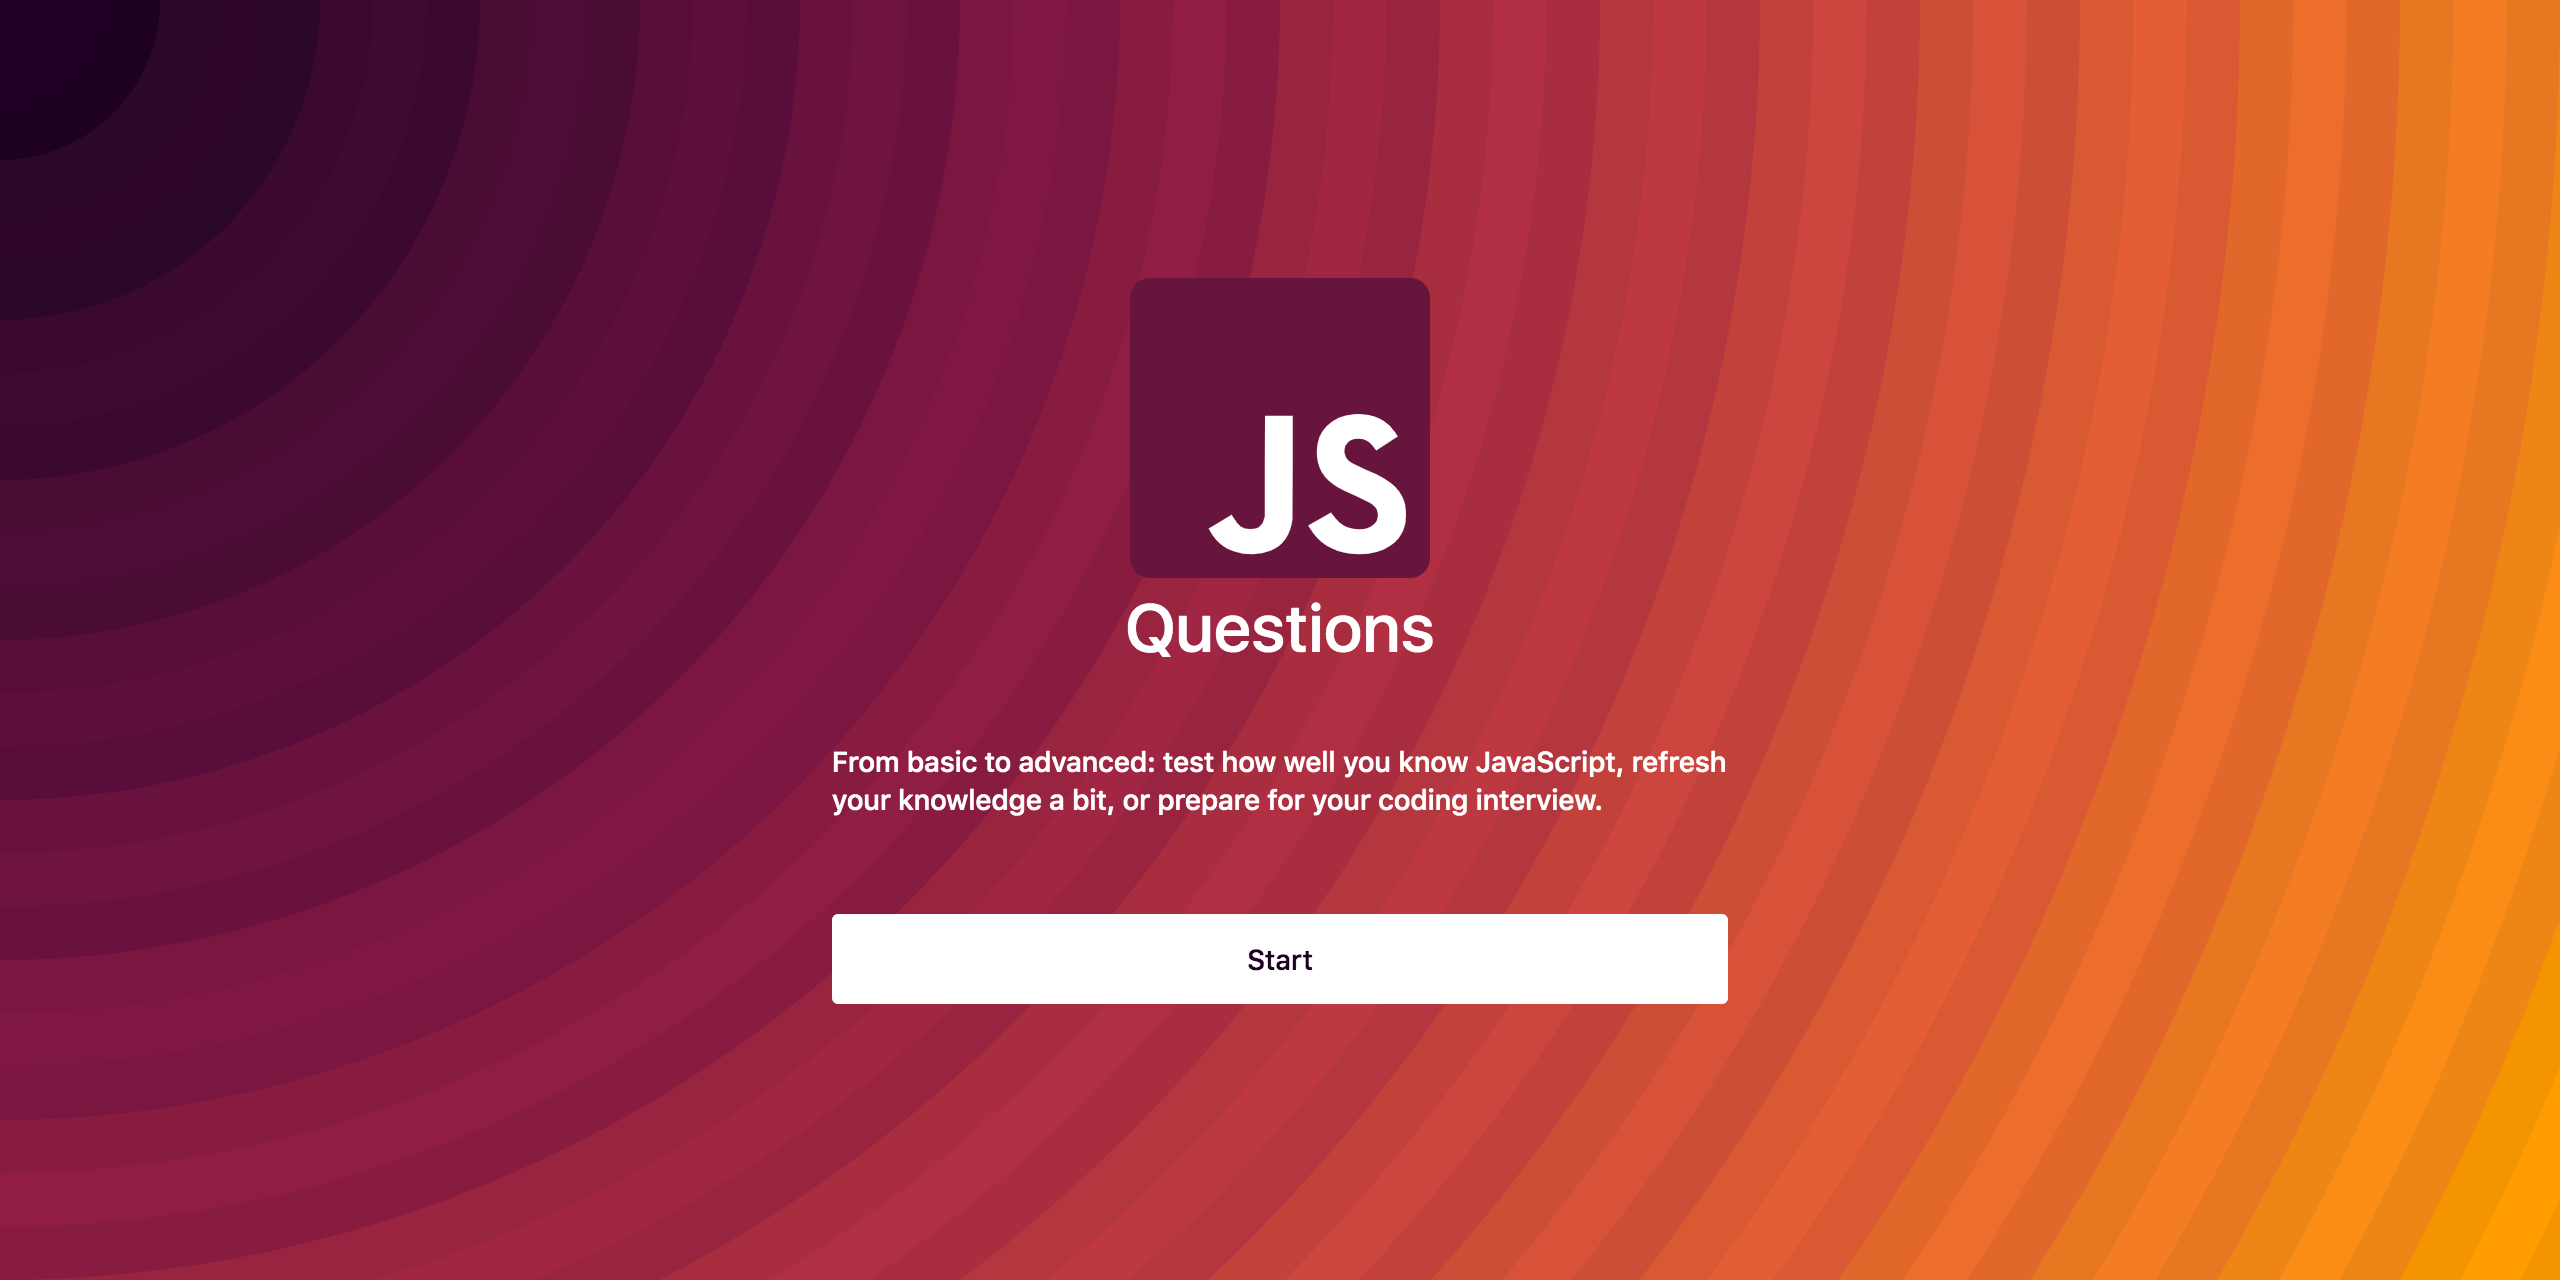
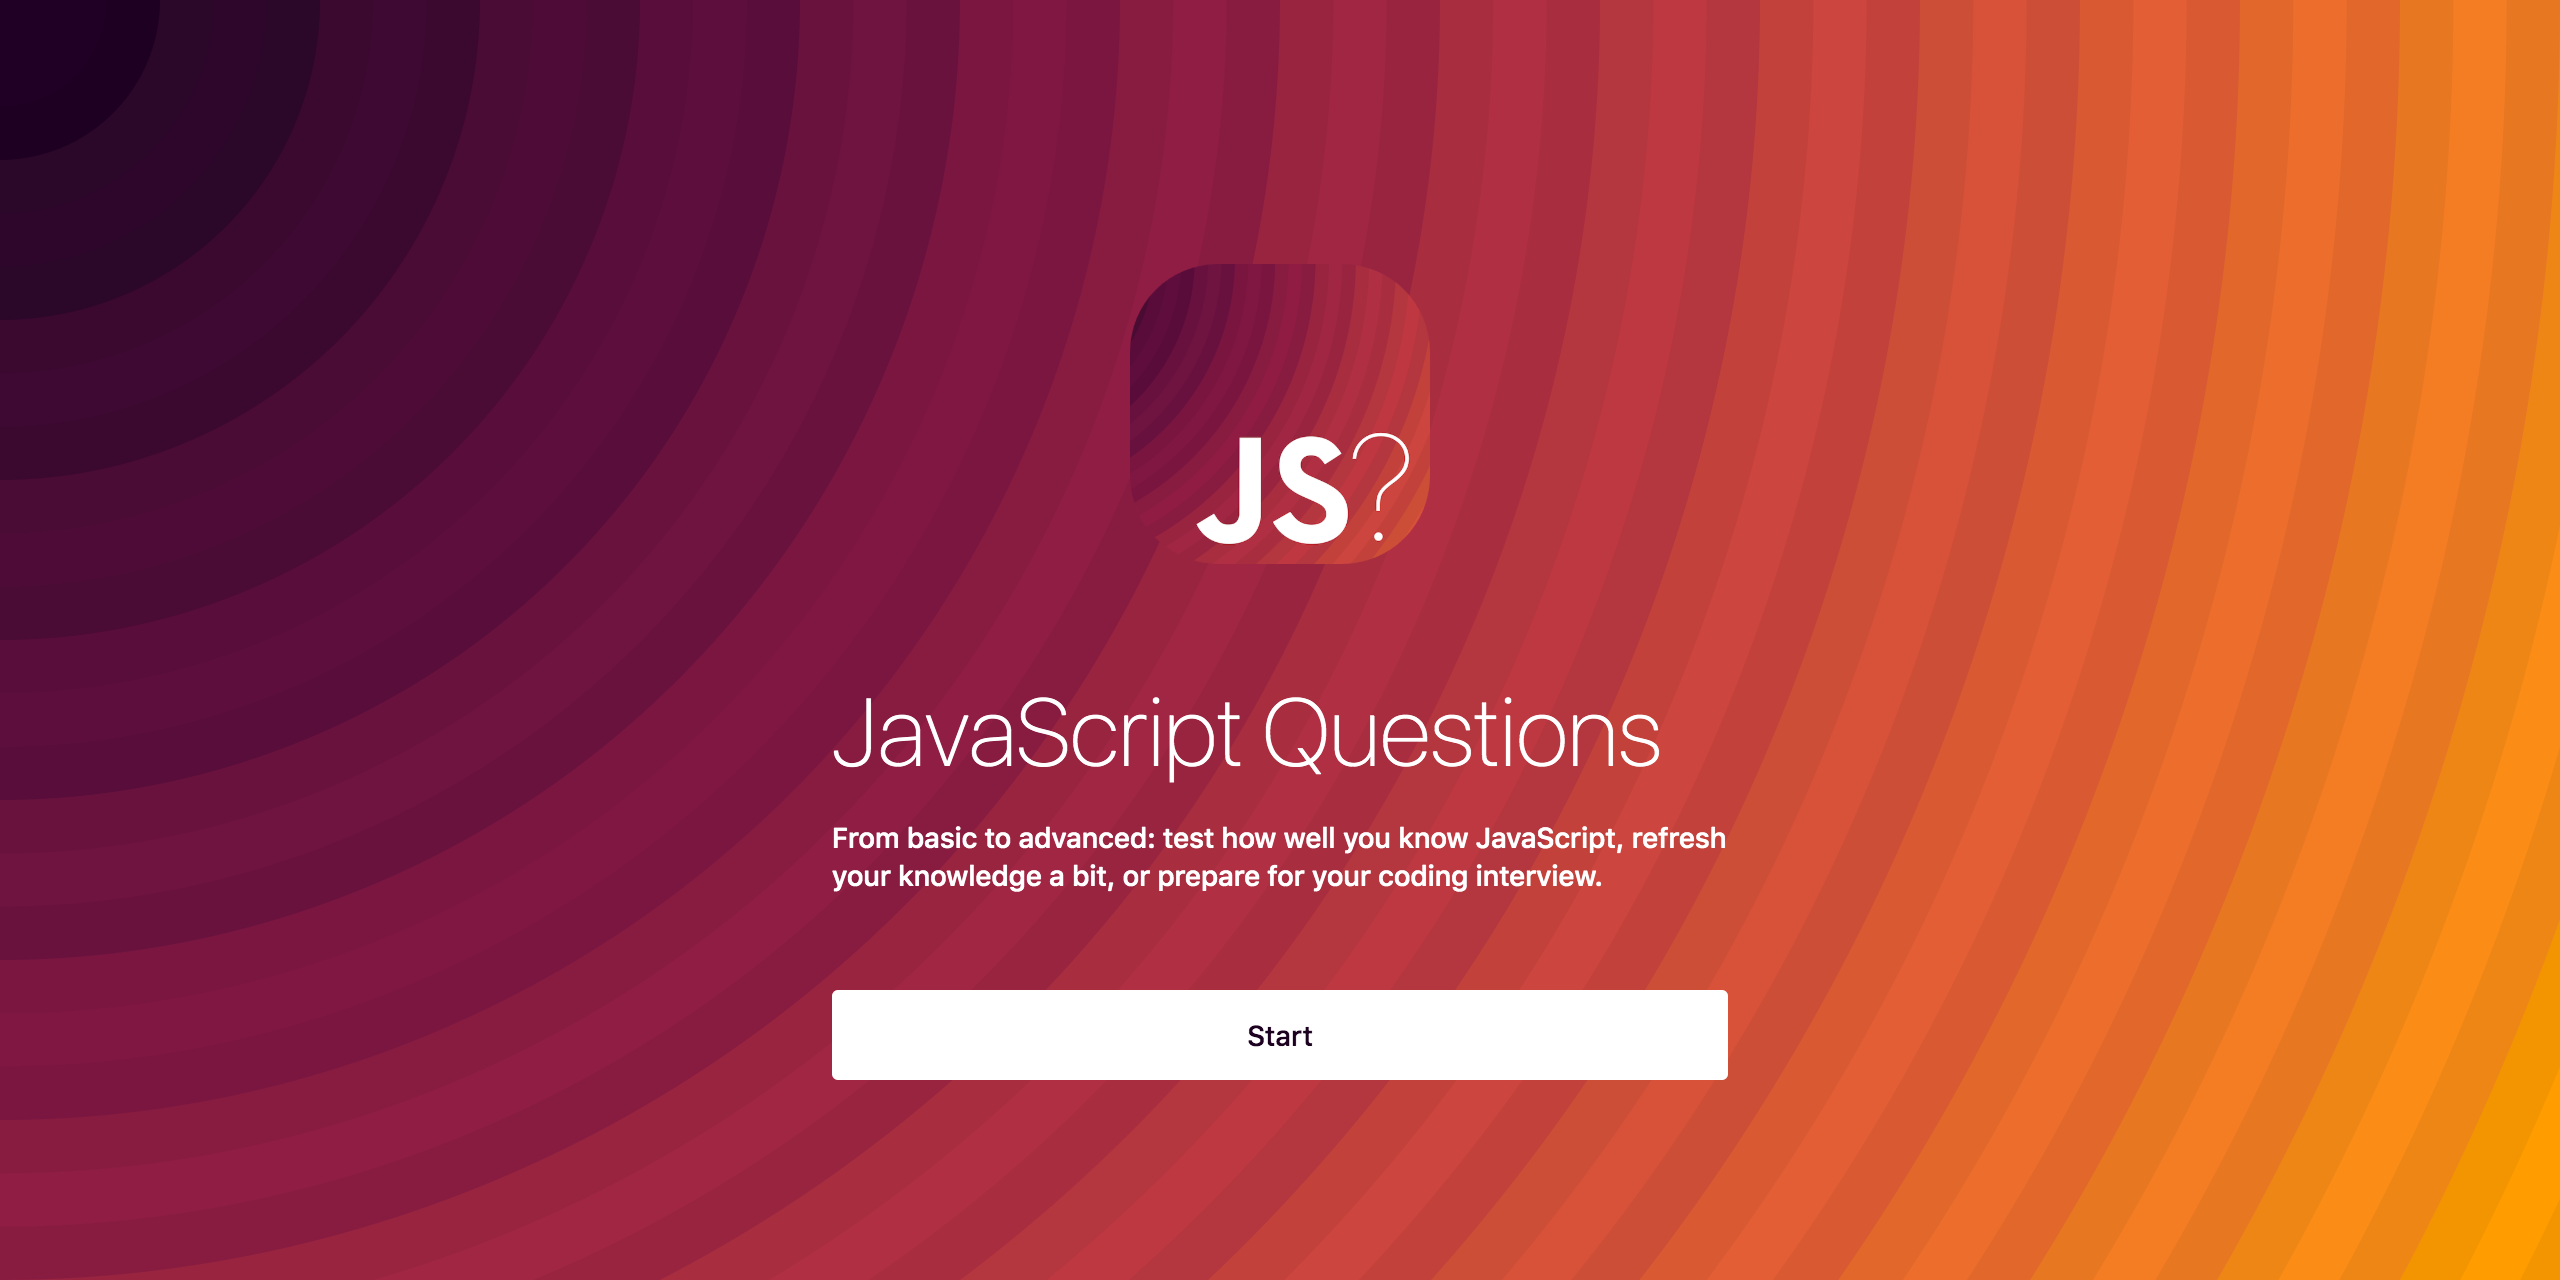
feat: app preview image updates

Changed region(s): [[0.3125, 0.5312, 0.6875, 0.8438], [0.4375, 0.1875, 0.5625, 0.5312]]

diff --git a/README.md b/README.md
@@ -2,7 +2,7 @@
 
 > Multiple choice JavaScript questions as Progressive Web App.
 
-<img src="media/preview.png" alt="JavaScript Questions PWA preview" width="530">
+<img src="media/preview-1.png" alt="JavaScript Questions PWA preview" width="530">
 
 
 ## Acknowledgments
